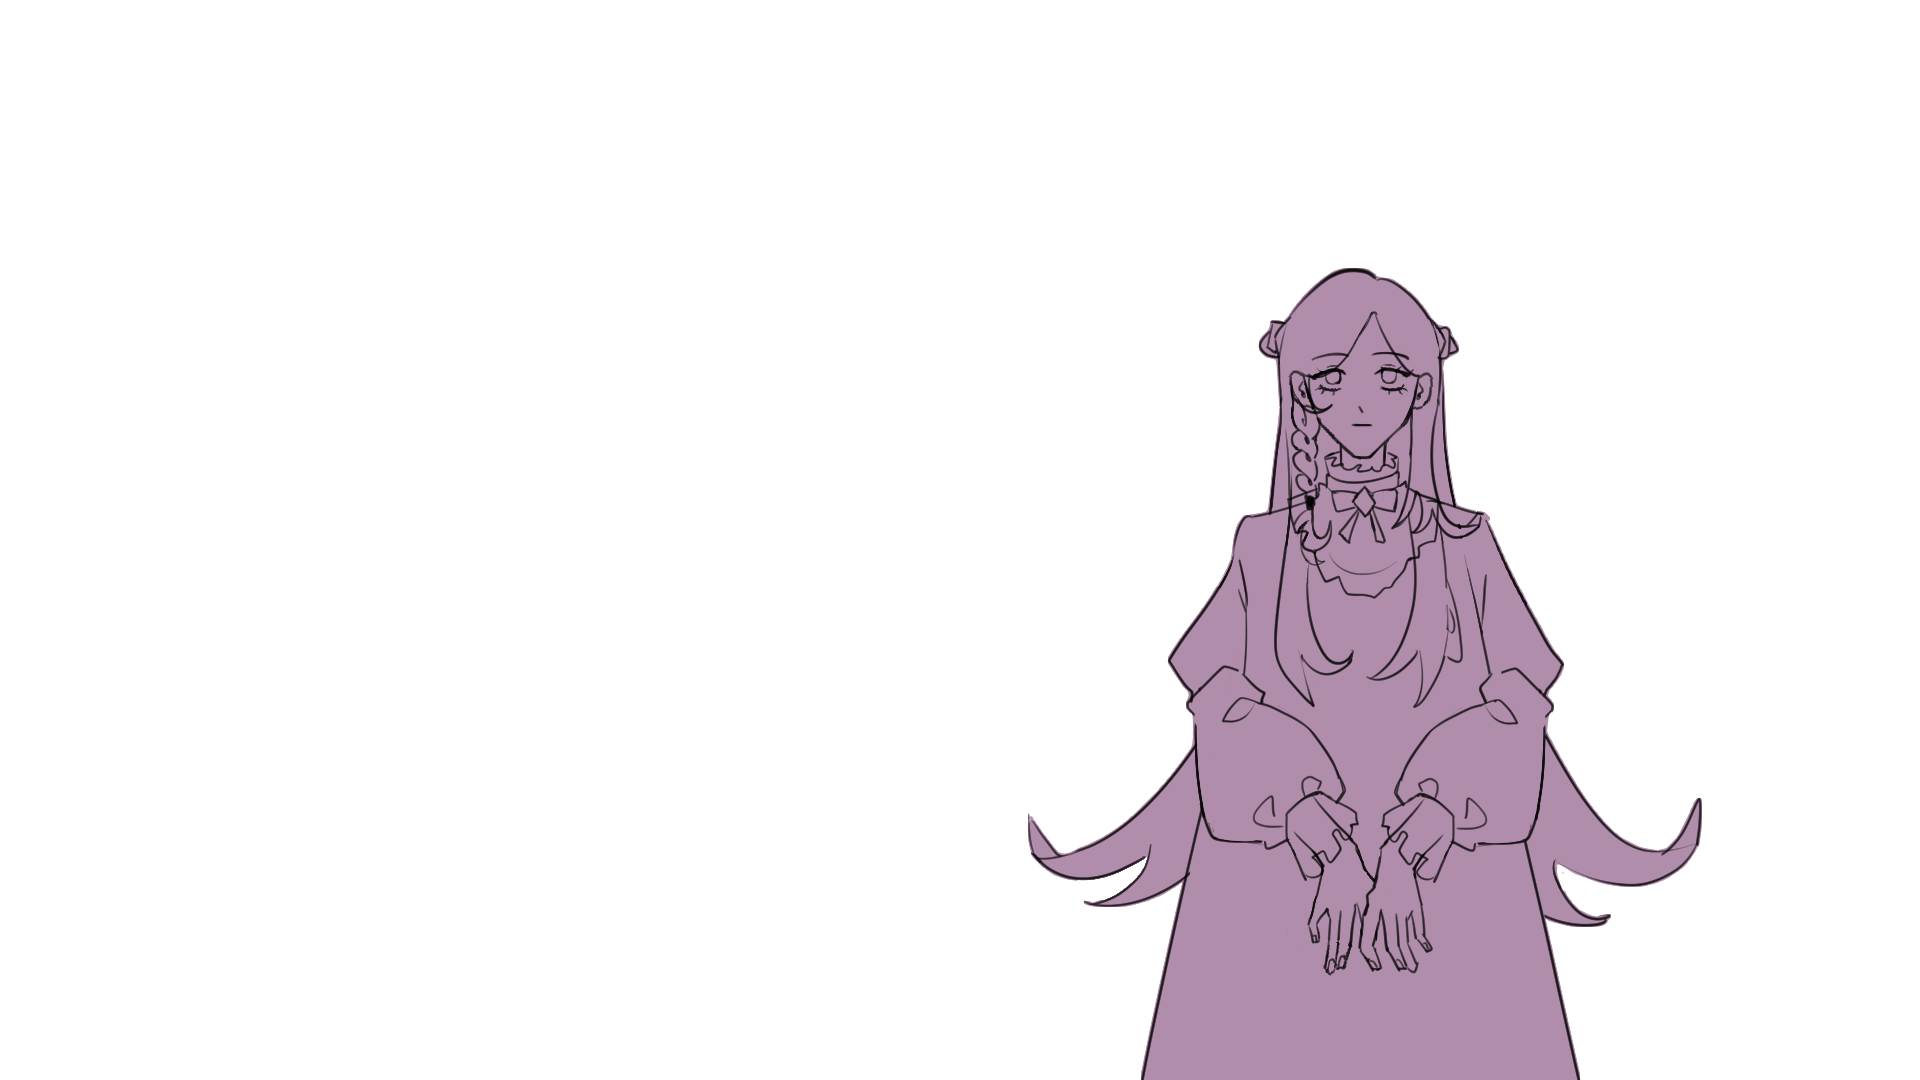
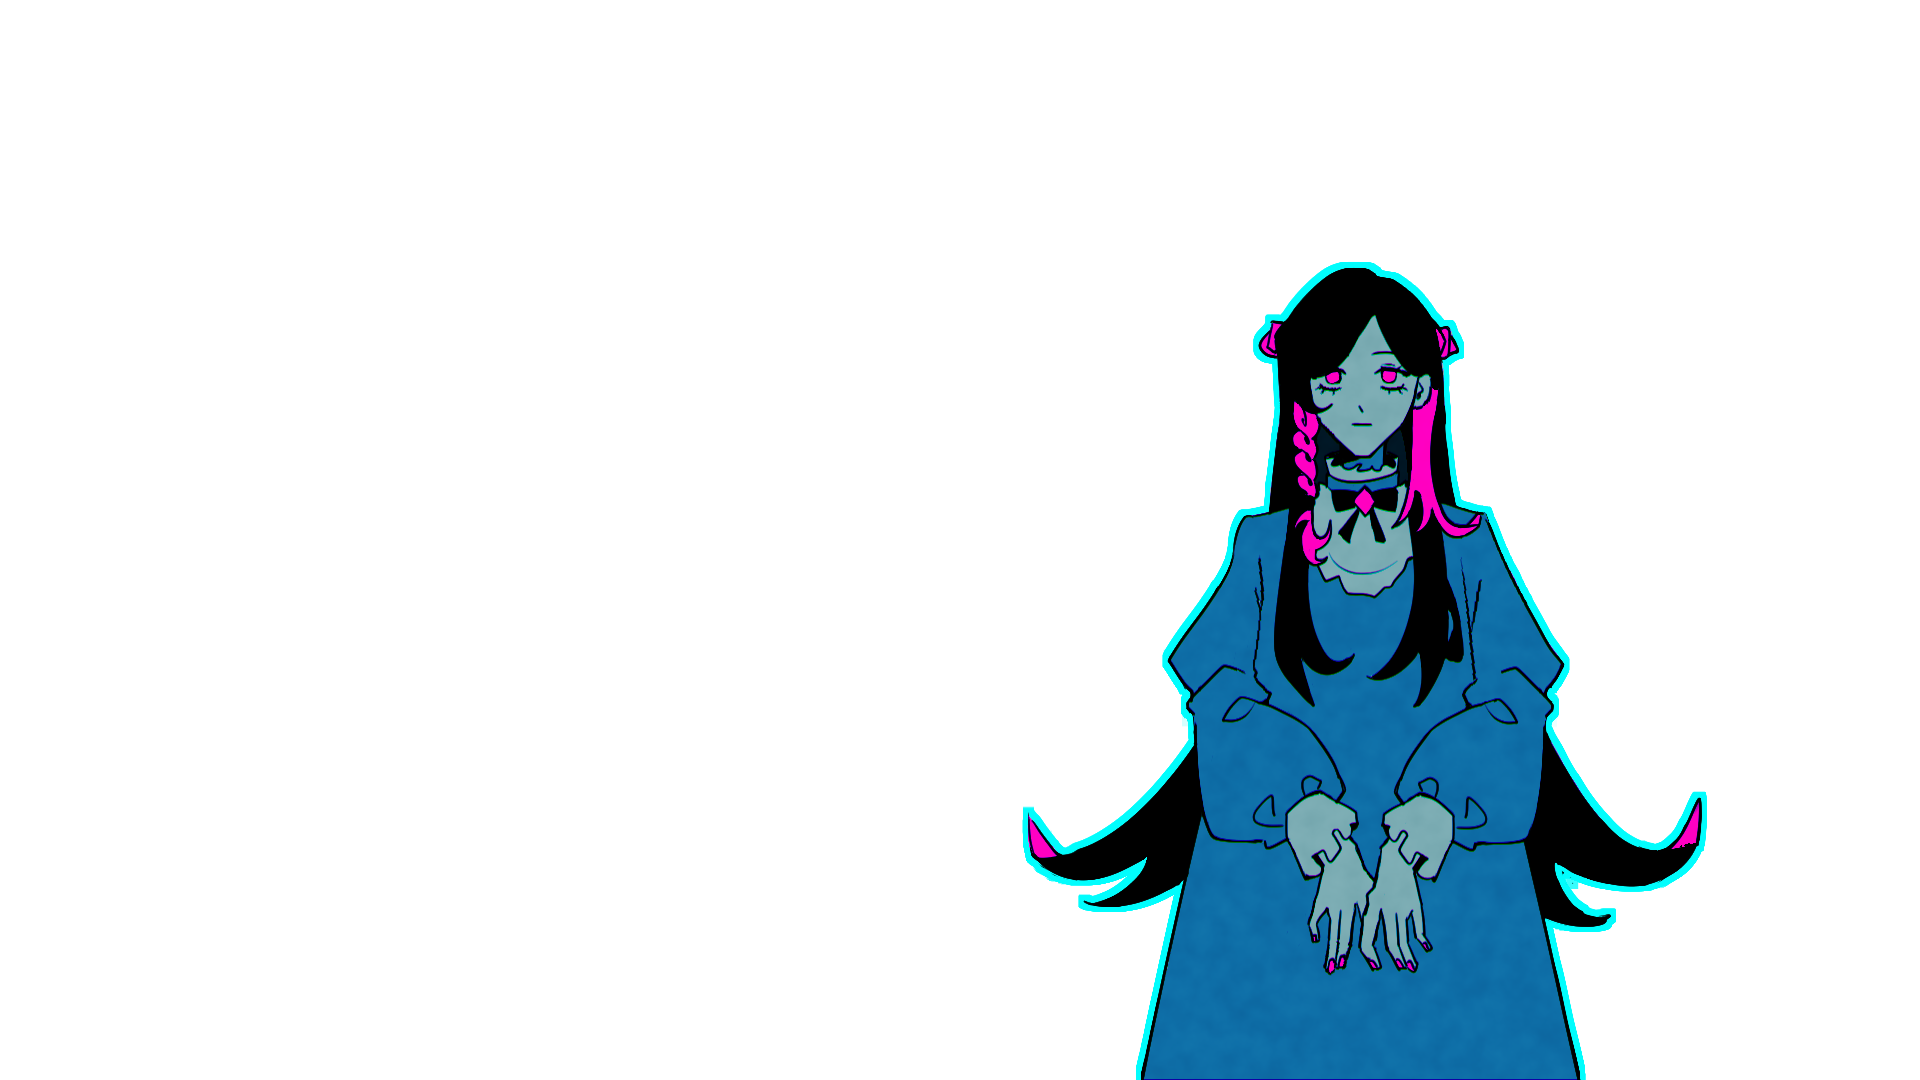
немного с перс

Changed region(s): [[0.5312, 0.2444, 0.9062, 1.0]]

diff --git a/src/data/scenes.js b/src/data/scenes.js
@@ -110,6 +110,7 @@ const scenes = {
     id: "leftRoom",
     name: "Девочка",
     text: "Ты вошла на кухню",
+    char: "/src/assets/chars/girl.png",
     bg: "/src/assets/bg/kitchen.jpg",
     choices: [{ text: "Вернуться", next: "scene7", type: "back" }],
     },
@@ -118,6 +119,7 @@ const scenes = {
     id: "rightRoom",
     name: "Девочка",
     text: "Ты открыла правую дверь и попала в гостинную",
+    char: "/src/assets/chars/girl.png",
     bg: "/src/assets/bg/livingroom.jpeg",
     choices: [
             { text: "идти дальше", next: "scene9", type: "next" },
@@ -180,6 +182,7 @@ const scenes = {
     id: "leftRoom13",
     name: "Девочка",
     text: "Ты вошла в лабороторию",
+    char: "/src/assets/chars/girl.png",
     bg: "/src/assets/bg/lab.jpeg",
     choices: [
         { text: "идти дальше", next: "scene14", type: "normal" },
@@ -189,6 +192,7 @@ const scenes = {
     scene13_right: {
     id: "rightRoom13",
     name: "Девочка",
+    char: "/src/assets/chars/girl.png",
     text: "Ты вошла в ванную",
     bg: "/src/assets/bg/bathroom.jpeg",
     choices: [{ text: "Вернуться", next: "scene13", type: "back" }],
@@ -197,6 +201,7 @@ const scenes = {
     id: "Room14",
     name: "Девочка",
     text: "ты вошла в коридор",
+    char: "/src/assets/chars/girl.png",
     bg: "/src/assets/bg/corridor.jpg",
     choices: [
         { text: "идти дальше", next: "scene15", type: "normal" },
@@ -207,6 +212,7 @@ const scenes = {
     id: "Room15",
     name: "Девочка",
     text: "ты вошла в комнату с бабочками",
+    char: "/src/assets/chars/girl.png",
     bg: "/src/assets/bg/collectorroom.jpeg",
     choices: [
         { text: "идти дальше", next: "scene16", type: "normal" },
@@ -244,6 +250,7 @@ const scenes = {
     id: "leftRoom17",
     name: "Девочка",
     text: "Ты вошла в комнату с призраками",
+    char: "/src/assets/chars/girl.png",
     bg: "/src/assets/bg/ghostroom.jpeg",
     choices: [
         { text: "осмотреться", next: "scene17_left_look", type: "normal" },
